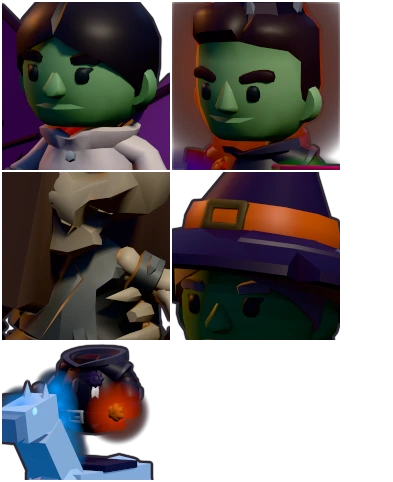
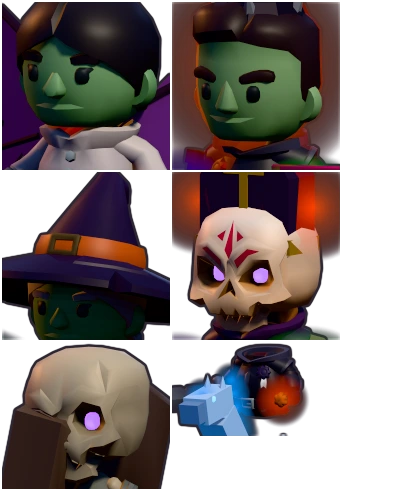
Art bosses: Malachar sprite, all six boss portraits

diff --git a/tools/bake/src/defs/bosses.ts b/tools/bake/src/defs/bosses.ts
@@ -6,7 +6,7 @@ import * as THREE from 'three';
 import { character, type Built } from '../character';
 import { definePortrait } from '../icon';
 import { loadProp } from '../assets';
-import { at, boomstick, cyl, glow } from '../props';
+import { at, boomstick, box, cone, cyl, extrude, glow, lathe, mat, sphere, torus } from '../props';
 import { ghostHorse, type Leg } from '../props_bosses_horse';
 import { batWing, cauldron, claws, horn, shovel, spikedHelm } from '../props_bosses';
 import { defineSprite, type AnimDef } from '../sprite';
@@ -225,7 +225,7 @@ const gwAnims: Record<string, AnimDef> = {
   'attack:coffin_toss': gw({ clip: 'Throw', frames: 6, duration: 0.5, from: 0.55, to: 1.37, hitAt: 0.45 }, true, (b, u) => { b.parts.coffin.visible = u < 0.45; }),
 };
 defineSprite({ id: 'boss_gravewright', facing: -1, build: buildGravewright, anims: gwAnims });
-definePortrait('portrait_boss_gravewright', 'bosses', async () => buildGravewright(), { yaw: -32, span: 1.9, lookAt: [-0.02, 2.7, 0], clip: 'Idle' });
+definePortrait('portrait_boss_gravewright', 'bosses', async () => buildGravewright(), { yaw: -32, span: 3.0, lookAt: [-0.05, 4.1, 0], clip: 'Idle' });
 
 // ---------------------------------------------------------------------------
 // Mother Mire: bog witch waist-deep in a bubbling cauldron. Legs hidden, the pot never moves except
@@ -300,7 +300,7 @@ const mireAnims: Record<string, AnimDef> = {
   'attack:summon': mire({ clip: 'Spellcast_Summon', frames: 6, duration: 0.9, from: 1.0, to: 2.8, hitAt: 0.45 }, { spirit: true }),
 };
 defineSprite({ id: 'boss_mother_mire', facing: -1, build: buildMire, anims: mireAnims });
-definePortrait('portrait_boss_mother_mire', 'bosses', async () => buildMire(), { yaw: -32, span: 2.0, lookAt: [-0.02, 3.5, 0], clip: 'Idle' });
+definePortrait('portrait_boss_mother_mire', 'bosses', async () => buildMire(), { yaw: -32, span: 2.8, lookAt: [-0.02, 3.8, 0], clip: 'Idle' });
 
 // ---------------------------------------------------------------------------
 // Sir Hollow: headless knight on a ghost horse, carrying his glowing jack-o-lantern head.
@@ -385,4 +385,101 @@ const hollowAnims: Record<string, AnimDef> = {
   'attack:double_charge': hol({ clip: 'Running_B', frames: 8, duration: 0.8, hitAt: 0.35 }, { fx: (b, u) => { gallop(b, u * TAU2 * 2.5, 1.0, 0.14); b.parts.horse.rotation.x = 0.1; } }),
 };
 defineSprite({ id: 'boss_sir_hollow', facing: -1, build: buildHollow, anims: hollowAnims });
-definePortrait('portrait_boss_sir_hollow', 'bosses', async () => buildHollow(), { yaw: -32, span: 2.8, lookAt: [-0.05, 3.4, 0], clip: 'Idle' });
+definePortrait('portrait_boss_sir_hollow', 'bosses', async () => buildHollow(), { yaw: -32, span: 3.4, lookAt: [-0.05, 4.1, 0], clip: 'Idle' });
+
+// ---------------------------------------------------------------------------
+// Abbot Malachar: fallen bishop. Skeleton mage, tall mitre, dark purple robe, censer on a chain, belled staff.
+// ---------------------------------------------------------------------------
+function mitre(): THREE.Group {
+  const g = new THREE.Group();
+  const cloth = mat(0x2a1a3a, { rough: 0.8 });
+  const gold = mat(0xd9a93a, { rough: 0.4, metal: 0.5 });
+  g.add(at(extrude([[-0.34, 0], [0.34, 0], [0.34, 0.5], [0, 1.0], [-0.34, 0.5]], 0.34, cloth), 0, 0, 0));
+  g.add(at(extrude([[-0.36, 0], [0.36, 0], [0.36, 0.1], [-0.36, 0.1]], 0.38, gold), 0, 0, 0));
+  g.add(at(box(0.06, 0.55, 0.37, gold), 0, 0.45, 0));
+  g.add(at(box(0.3, 0.06, 0.37, gold), 0, 0.55, 0));
+  return g;
+}
+function censer(): THREE.Group {
+  const g = new THREE.Group();
+  const iron = mat(0x6a5a3a, { rough: 0.4, metal: 0.6 });
+  g.add(at(cyl(0.025, 0.025, 1.0, iron, 5), 0, -0.5, 0));
+  const pot = new THREE.Group();
+  pot.position.set(0, -1.1, 0);
+  pot.add(at(sphere(0.2, iron, 9), 0, 0, 0));
+  pot.add(at(cone(0.08, 0.16, iron, 6), 0, 0.22, 0));
+  pot.add(at(glow('#b05cff', 0.5, 0.9), 0, 0, 0.05));
+  g.add(pot);
+  return g;
+}
+function bellStaff(): THREE.Group {
+  const g = new THREE.Group();
+  g.add(at(cyl(0.04, 0.05, 2.2, 0x3a2a1a, 6), 0, 0.5, 0));
+  const bell = new THREE.Group();
+  bell.position.set(0, 1.7, 0);
+  bell.add(at(torus(0.14, 0.03, mat(0x6a5a3a, { metal: 0.6, rough: 0.4 }), 8), 0, 0.2, 0, 90, 0, 0));
+  bell.add(at(lathe([[0.0, 0.0], [0.1, 0.02], [0.18, 0.12], [0.26, 0.28], [0.3, 0.32], [0.26, 0.3]], mat(0x2a2236, { rough: 0.4, metal: 0.5 }), 10), 0, -0.1, 0));
+  bell.add(at(sphere(0.06, 0x6a5a3a, 6), 0, -0.14, 0));
+  g.add(bell);
+  g.add(at(glow('#b05cff', 0.4, 0.8), 0, 1.65, 0));
+  (g as THREE.Group & { bell?: THREE.Object3D }).bell = bell;
+  return g;
+}
+async function buildMalachar() {
+  const staff = bellStaff();
+  const b = await character({
+    base: `${SKE}/Skeleton_Mage.glb`,
+    hide: ['Skeleton_Mage_Hat'],
+    recolor: {
+      '2,2': ['#5a3a6a', '#170c24'],
+      '3,0': ['#4a3a58', '#1a1226'],
+      '5,2': ['#d9a93a', '#7a5a1a'],
+      '1,2': ['#3a2a48', '#120a1c'],
+    },
+    emissive: [{ node: 'Skeleton_Mage_Eyes', color: 0xb05cff, intensity: 2.5 }],
+    attach: [
+      { to: 'head', object: mitre(), pos: [0, 0.55, 0], scale: 1.15, as: 'mitre' },
+      { to: 'handslot.r', object: staff, pos: [0, 0, 0], rot: [90, 0, 0], as: 'staff' },
+      { to: 'handslot.l', object: censer(), rot: [90, 0, 0], as: 'censer' },
+      { to: 'head', object: glow('#ff9a2a', 0.4, 0.9), pos: [-0.5, 0.9, 0], as: 'fb0' },
+      { to: 'head', object: glow('#ff9a2a', 0.4, 0.9), pos: [0, 1.0, 0], as: 'fb1' },
+      { to: 'head', object: glow('#ff9a2a', 0.4, 0.9), pos: [0.5, 0.9, 0], as: 'fb2' },
+      { to: 'handslot.l', object: glow('#7dff5a', 0.6, 0.9), pos: [0, 0.2, 0], as: 'dead' },
+    ],
+    clipsFrom: [`${ADV}/Knight.glb`],
+    scale: 2.2,
+  });
+  b.parts.bellnode = (staff as THREE.Group & { bell?: THREE.Object3D }).bell!;
+  return b;
+}
+const mal = (d: AnimDef, o: { fb?: 'orbit' | 'fire' | 'none'; dead?: boolean; bell?: number; fx?: (b: Built, u: number) => void } = {}): AnimDef => ({
+  ...d,
+  apply: (b, u, f) => {
+    b.parts.dead.visible = !!o.dead;
+    b.parts.bellnode.rotation.z = (o.bell ?? 0) * Math.sin(u * 40);
+    b.parts.censer.rotation.z = 0.25 * Math.sin(u * 6.28);
+    for (let i = 0; i < 3; i++) {
+      const fb = b.parts['fb' + i];
+      fb.visible = o.fb === 'orbit' || o.fb === 'fire';
+      const a = (i / 3) * 6.28 + u * 6.28 * 0.5;
+      fb.position.set(Math.cos(a) * 0.7, 1.0 + 0.05 * i, Math.sin(a) * 0.7);
+      if (o.fb === 'fire') fb.position.set(0.0 - u * 2.5, 0.9 + 0.1 * i, (i - 1) * 0.6 * (0.3 + u));
+    }
+    o.fx?.(b, u);
+    d.apply?.(b, u, f);
+  },
+});
+const malAnims: Record<string, AnimDef> = {
+  idle: mal({ clip: 'Idle', frames: 6, loop: true }),
+  walk: mal({ clip: 'Walking_C', frames: 8, loop: true }),
+  hurt: mal({ clip: 'Hit_A', frames: 3, duration: 0.3 }),
+  die: mal({ clip: 'Death_C_Skeletons', frames: 8, duration: 1.1, to: 1.2 }),
+  'telegraph:raise_dead': mal({ clip: 'Spellcast_Raise', frames: 4, duration: 0.8, from: 0, to: 1.4 }, { dead: true }),
+  'attack:raise_dead': mal({ clip: 'Spellcast_Summon', frames: 6, duration: 0.9, from: 1.0, to: 2.8, hitAt: 0.45 }, { dead: true }),
+  'telegraph:black_bell': mal({ clip: '2H_Melee_Attack_Chop', frames: 4, duration: 0.8, from: 0, to: 0.5 }, { bell: 0.3 }),
+  'attack:black_bell': mal({ clip: '2H_Melee_Attack_Chop', frames: 6, duration: 0.6, from: 0.5, to: 1.3, hitAt: 0.45 }, { bell: 0.6 }),
+  'telegraph:float_fireballs': mal({ clip: 'Spellcasting', frames: 4, duration: 0.8 }, { fb: 'orbit' }),
+  'attack:float_fireballs': mal({ clip: 'Spellcast_Long', frames: 6, duration: 0.9, from: 0.3, to: 2.4, hitAt: 0.4 }, { fb: 'fire' }),
+};
+defineSprite({ id: 'boss_malachar', facing: -1, build: buildMalachar, anims: malAnims });
+definePortrait('portrait_boss_malachar', 'bosses', async () => buildMalachar(), { yaw: -32, span: 2.8, lookAt: [-0.02, 3.8, 0], clip: 'Idle' });
